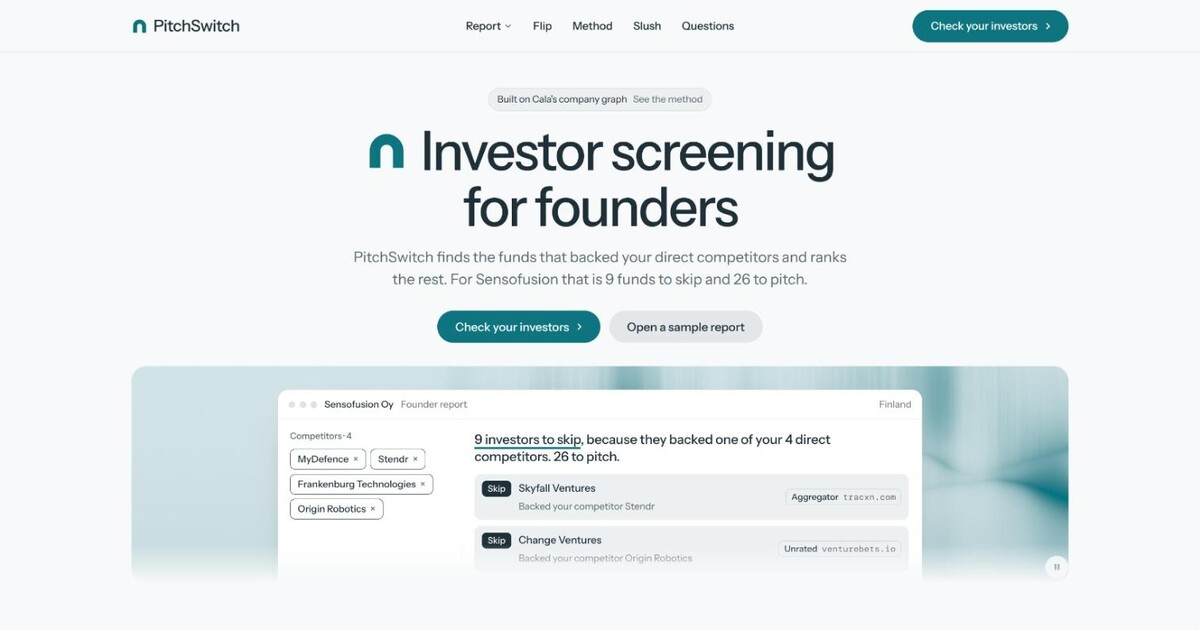
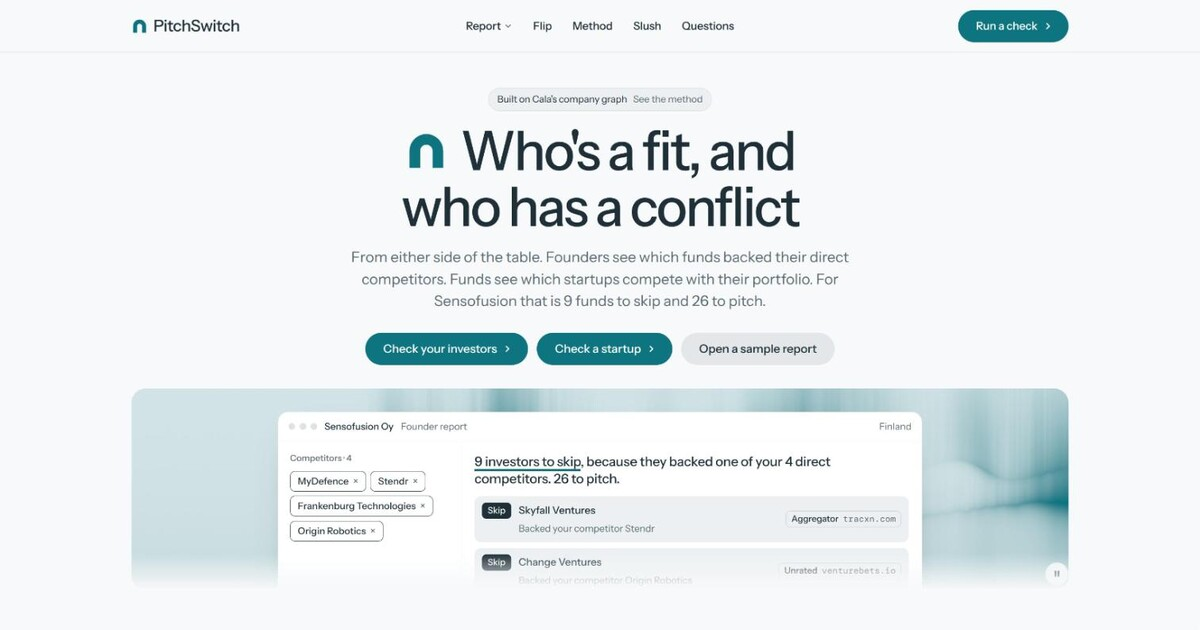
[C16] /about speaks to both sides: 'Who's a fit, and who has a conflict' hero, 'Check a startup' beside 'Check your investors', two-sided statement/closing/meta, new og.jpg; home opens on investor mode with ?mode=investor
Entire-Checkpoint: 01M7DFJ0QW8M2SF2V1J18AYX7F

diff --git a/frontend/public/about.html b/frontend/public/about.html
@@ -3,15 +3,15 @@
 <head>
 <meta charset="utf-8">
 <meta name="viewport" content="width=device-width, initial-scale=1, viewport-fit=cover">
-<title>PitchSwitch: investor screening for founders raising at Slush</title>
-<meta name="description" content="Find the funds that backed your direct competitors before you pitch them, and rank the rest by how they invest. Every claim links to its source in Cala.">
+<title>PitchSwitch: who's a fit, and who has a conflict, from either side of the table</title>
+<meta name="description" content="Founders see which funds backed their direct competitors. Funds see which startups compete with their portfolio. Every claim links to its source in Cala.">
 <meta property="og:type" content="website">
-<meta property="og:title" content="PitchSwitch: investor screening for founders raising at Slush">
-<meta property="og:description" content="Who to pitch and who to skip, with a source on every claim.">
+<meta property="og:title" content="PitchSwitch: who's a fit, and who has a conflict, from either side of the table">
+<meta property="og:description" content="Conflict checks for founders and investors before Slush, with a source on every claim.">
 <meta property="og:image" content="https://95-133-252-219.sslip.io/og.jpg">
 <meta property="og:image:width" content="1200">
 <meta property="og:image:height" content="630">
-<meta property="og:image:alt" content="PitchSwitch: investor screening for founders. For Sensofusion, 9 funds to skip and 26 to pitch.">
+<meta property="og:image:alt" content="PitchSwitch: who's a fit, and who has a conflict, from either side of the table. For Sensofusion, 9 funds to skip and 26 to pitch.">
 <meta name="twitter:card" content="summary_large_image">
 <link rel="icon" href="/favicon.svg" type="image/svg+xml">
 <meta name="theme-color" content="#f7f9fa">
@@ -211,7 +211,7 @@
       <div class="nav__item"><a class="nav__link" href="#faq">Questions</a></div>
     </nav>
     <div class="nav__actions">
-      <a class="btn btn--primary" href="/">Check your investors</a>
+      <a class="btn btn--primary" href="/">Run a check</a>
     </div>
     <button class="nav__toggle" type="button" aria-expanded="false" aria-label="Menu">
       <svg width="18" height="18" viewBox="0 0 18 18" aria-hidden="true"><path d="M2 5h14M2 13h14" stroke="currentColor" stroke-width="1.6" stroke-linecap="round"/></svg>
@@ -224,9 +224,9 @@
     <div class="wrap"><div class="hero-text">
       <div class="hero__c">
         <a class="pill" href="#how"><span>Built on Cala's company graph</span><span class="muted">See the method</span></a>
-        <h1 id="hero-h" aria-label="Investor screening for founders"><span class="mark" data-mark="arc" aria-hidden="true"></span> Investor screening for founders</h1>
-        <p class="hero__lead">PitchSwitch finds the funds that backed your direct competitors and ranks the rest. For Sensofusion that is 9 funds to skip and 26 to pitch.</p>
-        <div class="btn-row"><a class="btn btn--primary" href="/">Check your investors</a><a class="btn btn--secondary" href="/founder/202e9283-6455-486f-8868-03c7e0d0cf29">Open a sample report</a></div>
+        <h1 id="hero-h" aria-label="Who's a fit, and who has a conflict"><span class="mark" data-mark="arc" aria-hidden="true"></span> Who's a fit, and who has a conflict</h1>
+        <p class="hero__lead">From either side of the table. Founders see which funds backed their direct competitors. Funds see which startups compete with their portfolio. For Sensofusion that is 9 funds to skip and 26 to pitch.</p>
+        <div class="btn-row"><a class="btn btn--primary" href="/">Check your investors</a><a class="btn btn--primary" href="/?mode=investor">Check a startup</a><a class="btn btn--secondary" href="/founder/202e9283-6455-486f-8868-03c7e0d0cf29">Open a sample report</a></div>
       </div>
       <div class="hero__window" data-fx="aurora-curtains" data-fx-seed="7" data-fx-palette='{"bg":"#cfe0e2","surface":"#e4eef0","ink":"#1f3038","muted":"#5d6b72","accent":"#0d7480","accentInk":"#ffffff"}' role="img" aria-label="Sensofusion's founder report: 9 investors to skip, among them Skyfall Ventures, which backed the competitor Stendr, and Maki.vc at the top of the Pitch list with 70">
         <div class="ly-piece pw pw--hero" aria-hidden="true">
@@ -295,8 +295,8 @@
   <section class="section" id="statement" aria-labelledby="statement-h">
     <div class="wrap">
       <div class="section-head" data-moment="liquid-type" style="max-width:none">
-        <h2 class="mo-lt__type" id="statement-h">Know who to skip before Slush.</h2>
-        <p class="t-lead measure">A fund that backed your direct competitor is a conflict: your deck reaches a rival's backer. PitchSwitch lists those funds first, each with the page that shows it.</p>
+        <h2 class="mo-lt__type" id="statement-h">Know about the conflict before the meeting.</h2>
+        <p class="t-lead measure">A fund that backed a direct competitor is a conflict: the founder's deck reaches a rival's backer, and the fund hears a pitch against its own portfolio. PitchSwitch shows it to both, each with the page that proves it.</p>
       </div>
       <dl class="facts">
         <div><dt>Sensofusion's report</dt><dd>35 funds checked</dd></div>
@@ -310,7 +310,7 @@
     <div class="wrap">
       <div class="grid">
         <div class="span-5 stack-5">
-          <h2 id="flip-h">The same conflict, from the fund's side</h2>
+          <h2 id="flip-h">Or check it from the fund's side</h2>
           <p class="t-lead">An investor enters their fund and the startup that pitched them. The check shows any conflict with their portfolio and who backed each rival.</p>
           <p>Your fund is marked in every rival's list of backers.<br>Rounds show their size and lead where Cala has them.<br>One click goes back to the founder's view.</p>
           <a class="link" href="/check/9b65ed62-a126-4255-8339-44c59fbf0ad8/202e9283-6455-486f-8868-03c7e0d0cf29">Open the sample check</a>
@@ -436,16 +436,16 @@
   <div class="wrap">
     <div class="closing__cta close--type">
       <div class="section-head">
-        <h2 id="close-h">Check your investors before Slush</h2>
+        <h2 id="close-h">Check the conflict before Slush</h2>
         <p class="t-small muted">A cold report takes a few minutes while Cala is read; a cached one opens at once.</p>
       </div>
-      <a class="btn btn--primary btn--xl btn--wide" href="/">Check your investors<svg class="m-arrow" viewBox="0 0 12 12" aria-hidden="true"><path class="m-arrow__stem" d="M1 6h8"/><path class="m-arrow__head" d="M4.5 2.5 8 6l-3.5 3.5"/></svg></a>
+      <div class="btn-row"><a class="btn btn--primary btn--xl" href="/">Check your investors<svg class="m-arrow" viewBox="0 0 12 12" aria-hidden="true"><path class="m-arrow__stem" d="M1 6h8"/><path class="m-arrow__head" d="M4.5 2.5 8 6l-3.5 3.5"/></svg></a><a class="btn btn--primary btn--xl" href="/?mode=investor">Check a startup<svg class="m-arrow" viewBox="0 0 12 12" aria-hidden="true"><path class="m-arrow__stem" d="M1 6h8"/><path class="m-arrow__head" d="M4.5 2.5 8 6l-3.5 3.5"/></svg></a></div>
     </div>
     <div class="closing__links">
       <div class="grid">
         <div class="span-4 stack-4">
           <a class="footer__mark" href="#top"><span class="mark" data-mark="arc" aria-hidden="true"></span>PitchSwitch</a>
-          <p class="footer__lede">Investor screening on Cala's company graph, built at Junction 2026.</p>
+          <p class="footer__lede">Conflict checks for founders and investors on Cala's company graph, built at Junction 2026.</p>
         </div>
         <div class="span-2 start-7 footer__col"><h3>Founders</h3><ul><li><a href="#report">Founder report</a></li><li><a href="/prep">Slush prep</a></li></ul></div>
         <div class="span-2 footer__col"><h3>Investors</h3><ul><li><a href="#flip">Investor check</a></li><li><a href="#slush">MCP server</a></li></ul></div>

diff --git a/frontend/app/page.tsx b/frontend/app/page.tsx
@@ -1,6 +1,8 @@
+import { Suspense } from "react";
+
 import { HomeForm } from "@/components/HomeForm";
 
-export default function Home() {
+export default function Home({ searchParams }: PageProps<"/">) {
   return (
     // One framed unit (chosen in live mode): the pitch on Press Black, the form beside it, no gutter.
     <section className="grid items-stretch overflow-hidden rounded-[5px] border border-foreground lg:grid-cols-[minmax(0,1.15fr)_minmax(0,1fr)]">
@@ -15,8 +17,15 @@ export default function Home() {
         </p>
       </div>
       <div className="px-6 py-8 sm:px-10 sm:py-12">
-        <HomeForm />
+        <Suspense fallback={<HomeForm />}>
+          <Form searchParams={searchParams} />
+        </Suspense>
       </div>
     </section>
   );
+}
+
+async function Form({ searchParams }: Pick<PageProps<"/">, "searchParams">) {
+  const { mode } = await searchParams;
+  return <HomeForm initialMode={mode === "investor" ? "investor" : "founder"} />;
 }

diff --git a/frontend/components/HomeForm.tsx b/frontend/components/HomeForm.tsx
@@ -21,9 +21,10 @@ const MODES: { value: Mode; label: string; hint: string }[] = [
   },
 ];
 
-export function HomeForm() {
+// initialMode: "investor" when the URL has ?mode=investor (the landing page's "Check a startup").
+export function HomeForm({ initialMode = "founder" }: { initialMode?: Mode }) {
   const router = useRouter();
-  const [mode, setMode] = useState<Mode>("founder");
+  const [mode, setMode] = useState<Mode>(initialMode);
   const [company, setCompany] = useState<EntityRef | null>(null);
   const [fund, setFund] = useState<EntityRef | null>(null);
   const [startup, setStartup] = useState<EntityRef | null>(null);
